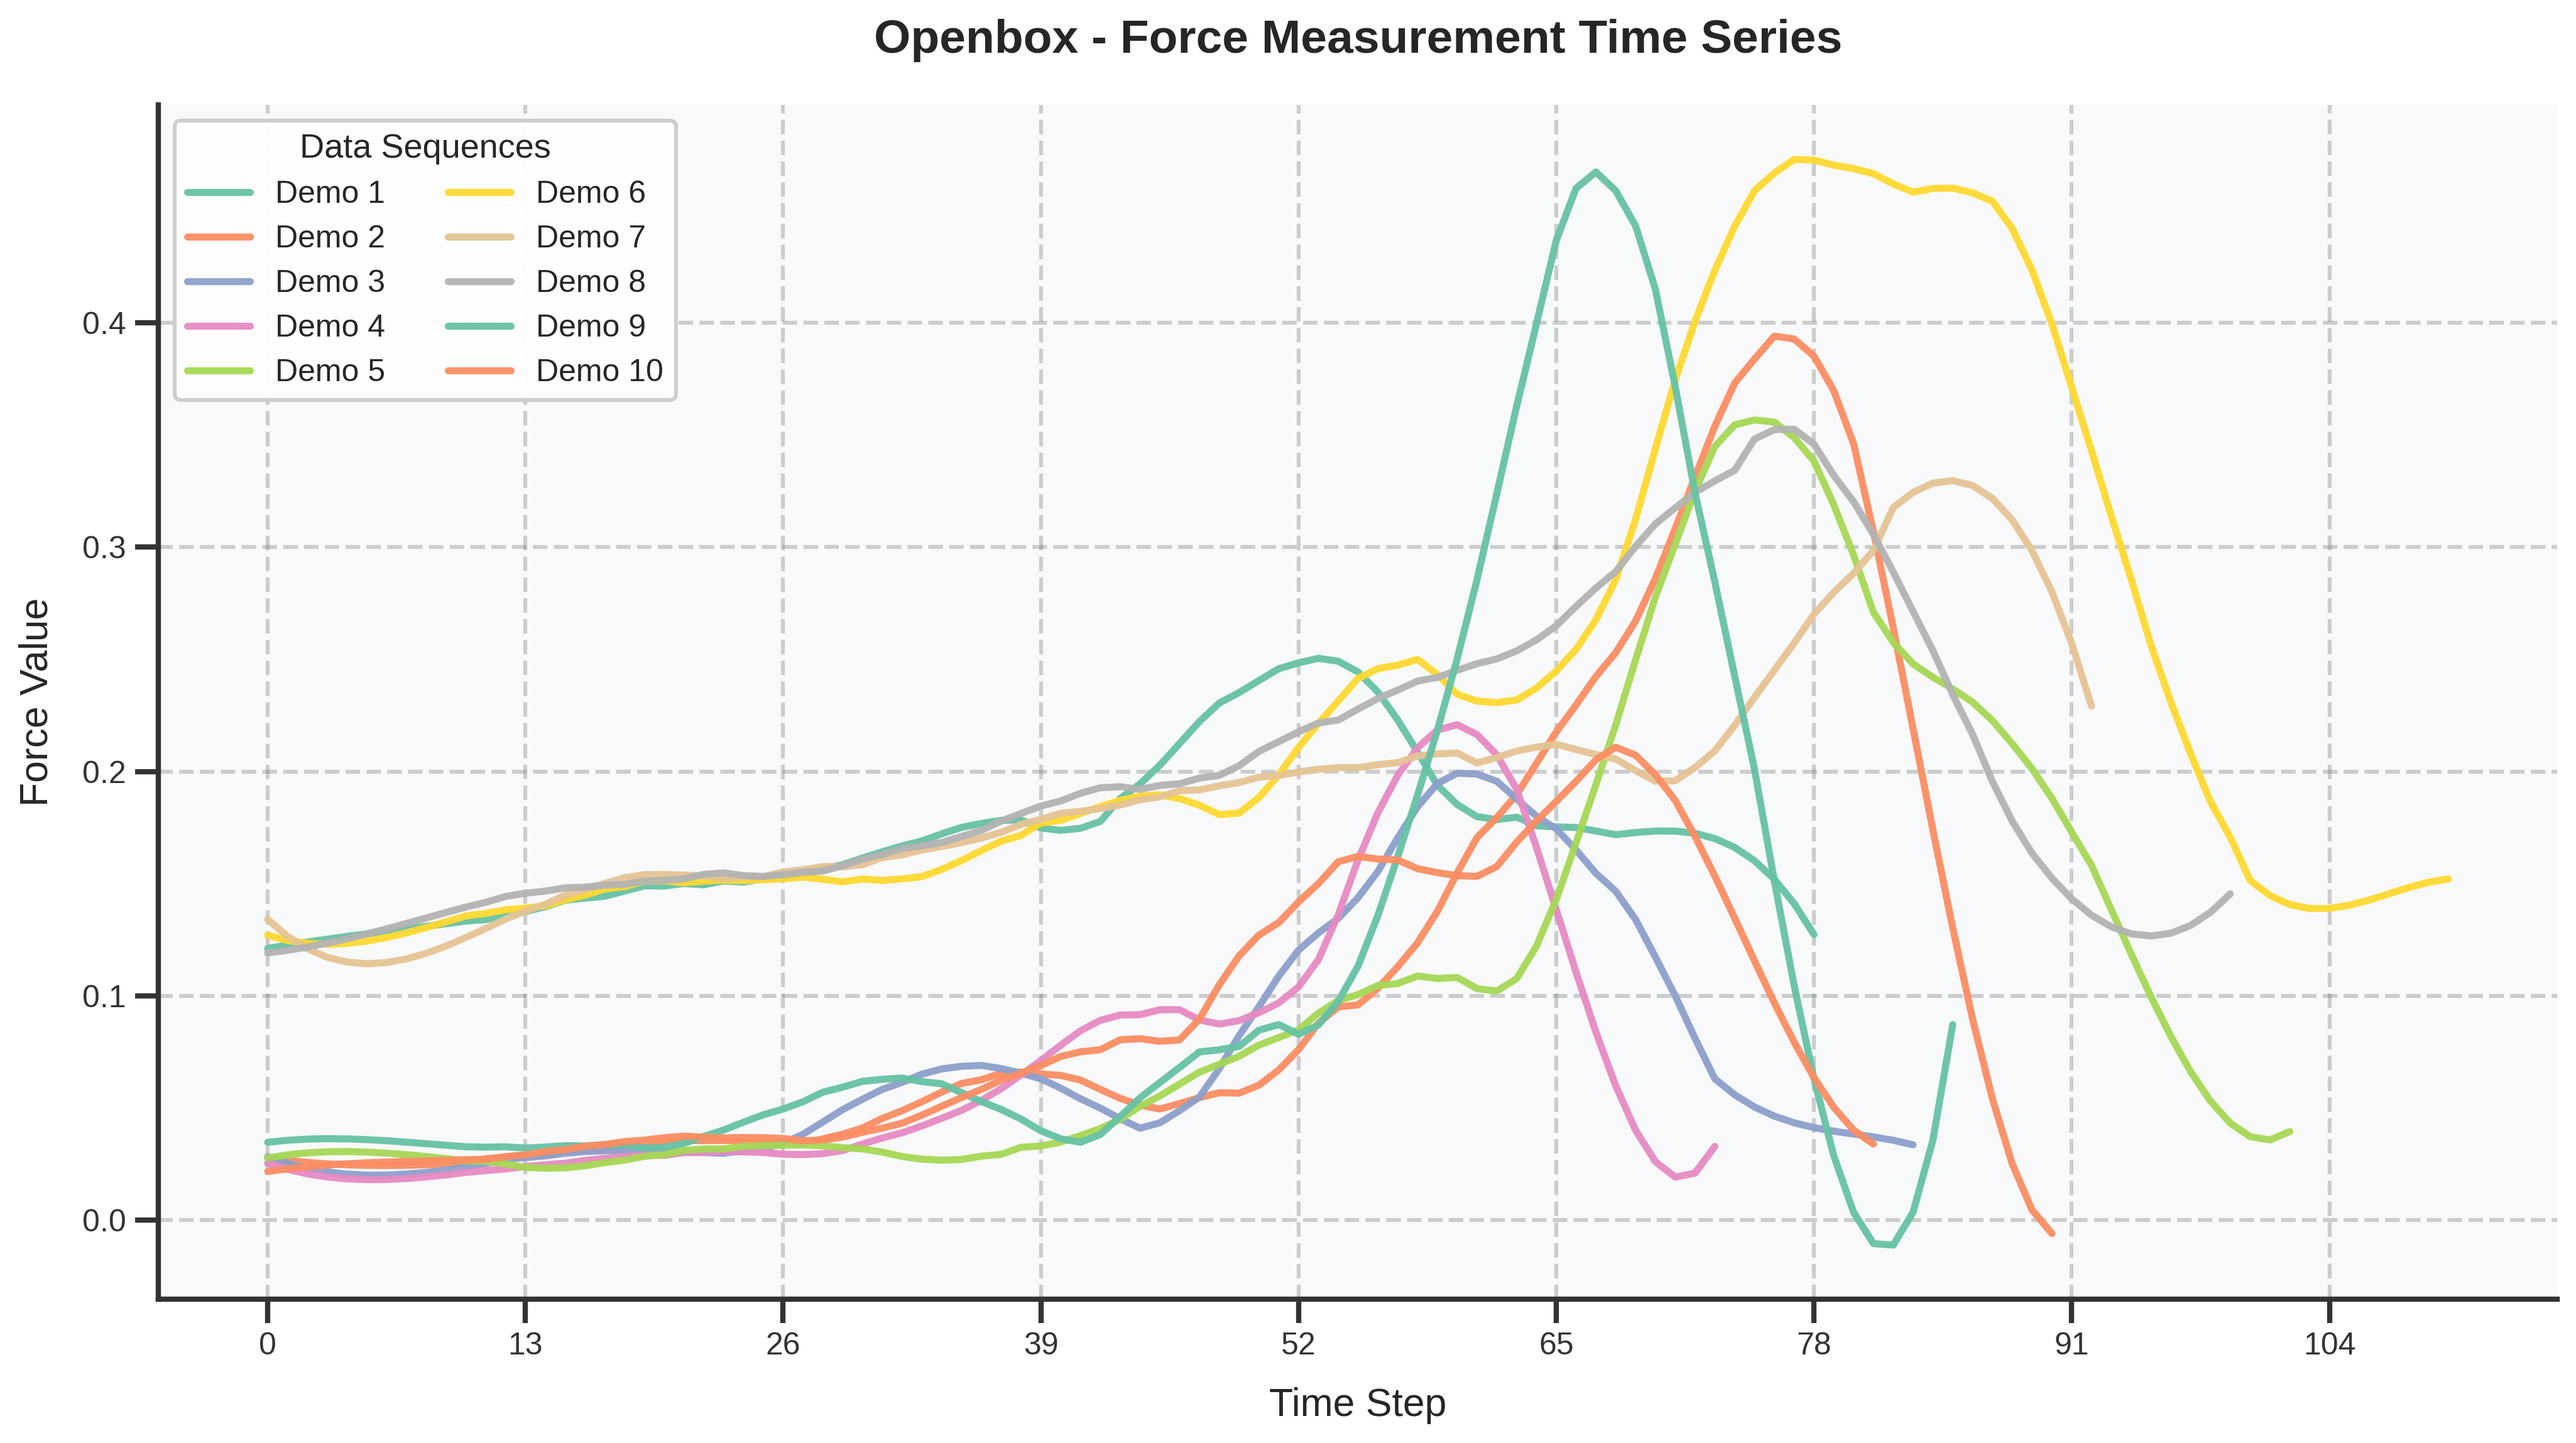
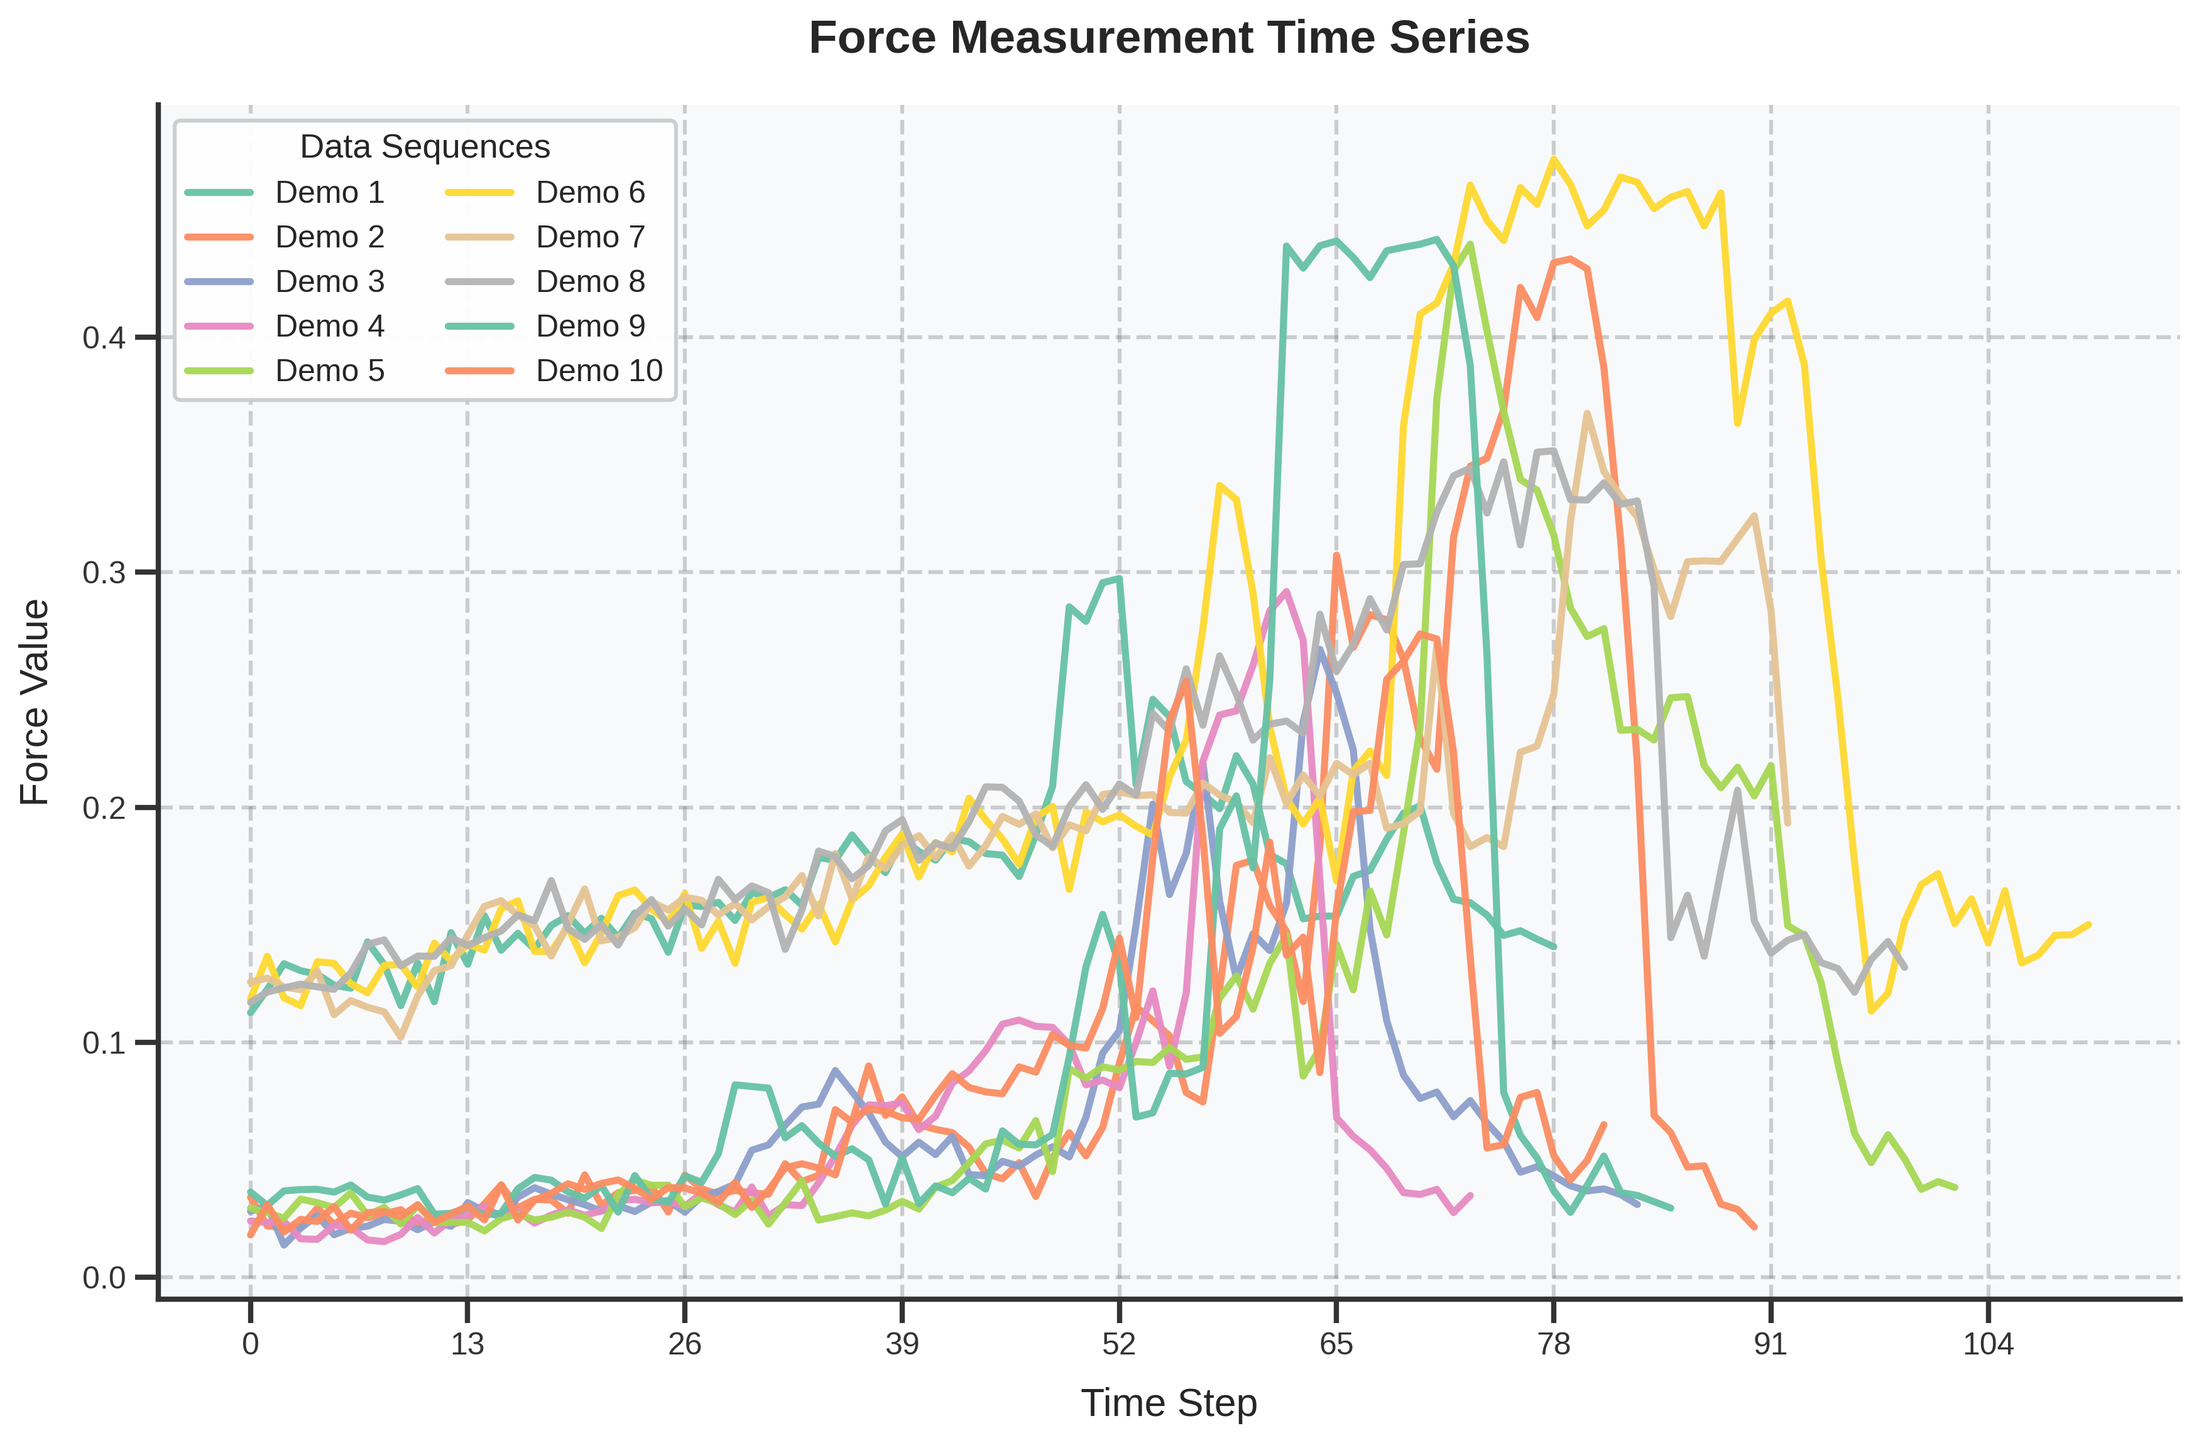
fix img error

diff --git a/index.html b/index.html
@@ -303,7 +303,7 @@
         </div>
         <div class="column has-text-centered">
           <div>Reorientation</div>
-          <img src="media/img/reori_force_comparison.png" class="interpolation-image" style="width: auto; height: auto;">
+          <img src="media/img/reorient_force_comparison.png" class="interpolation-image" style="width: auto; height: auto;">
           <p style="text-align:center">
           </p>
         </div>
@@ -663,7 +663,7 @@
             </div>
     
             </div>
-  
+ 
       </div>
     </div>
   </div>
